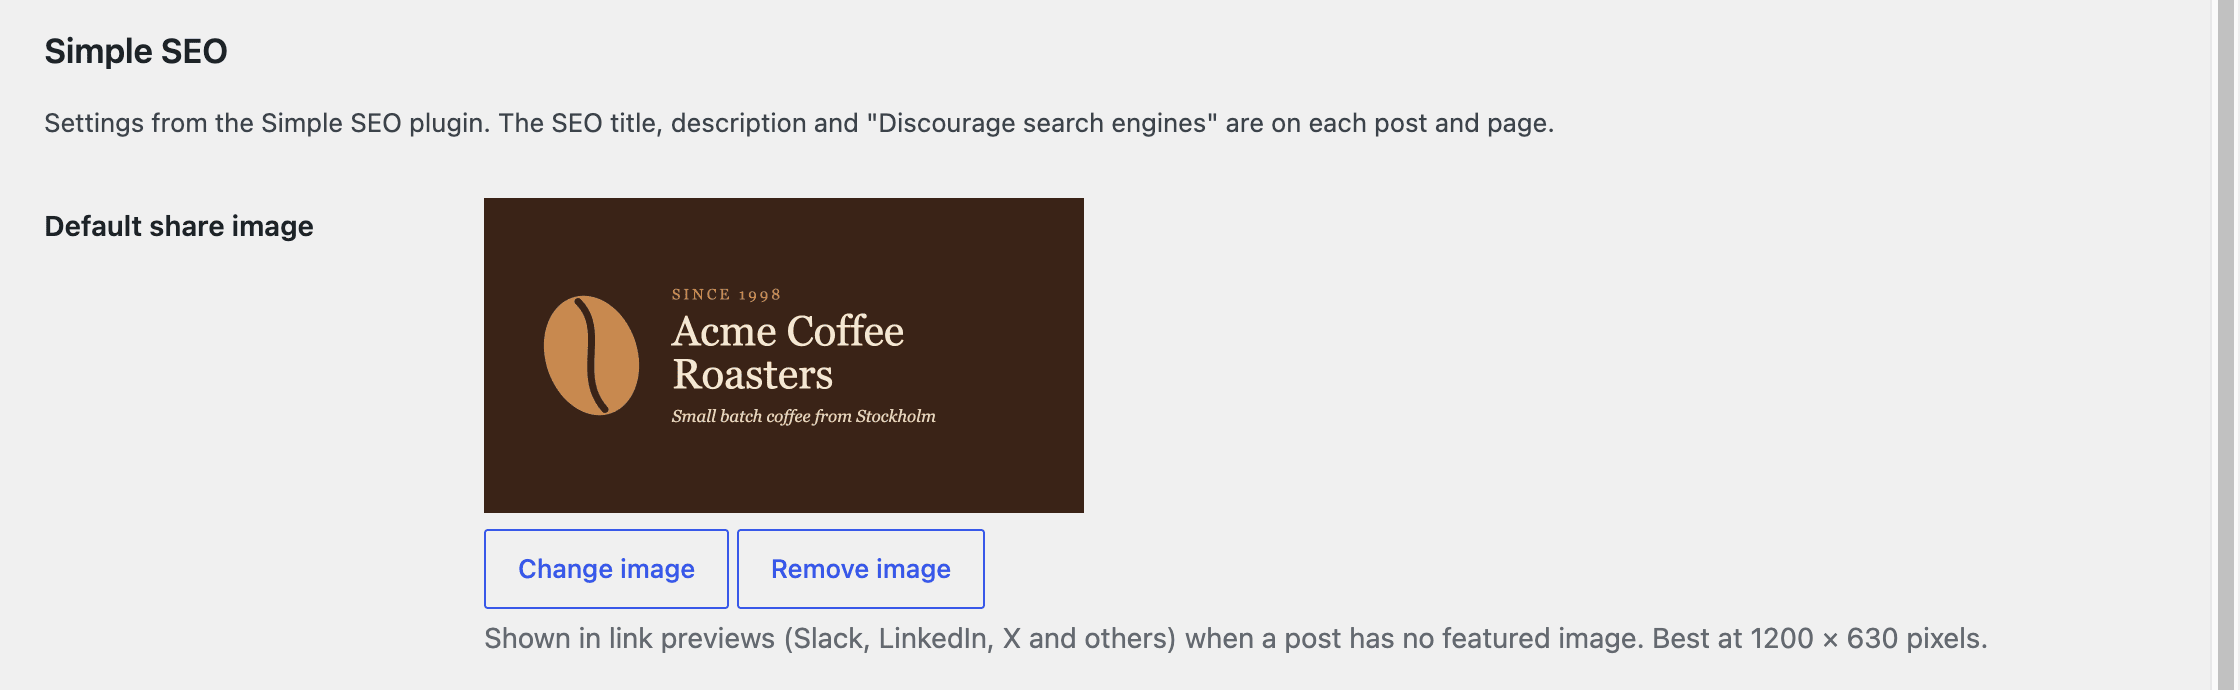
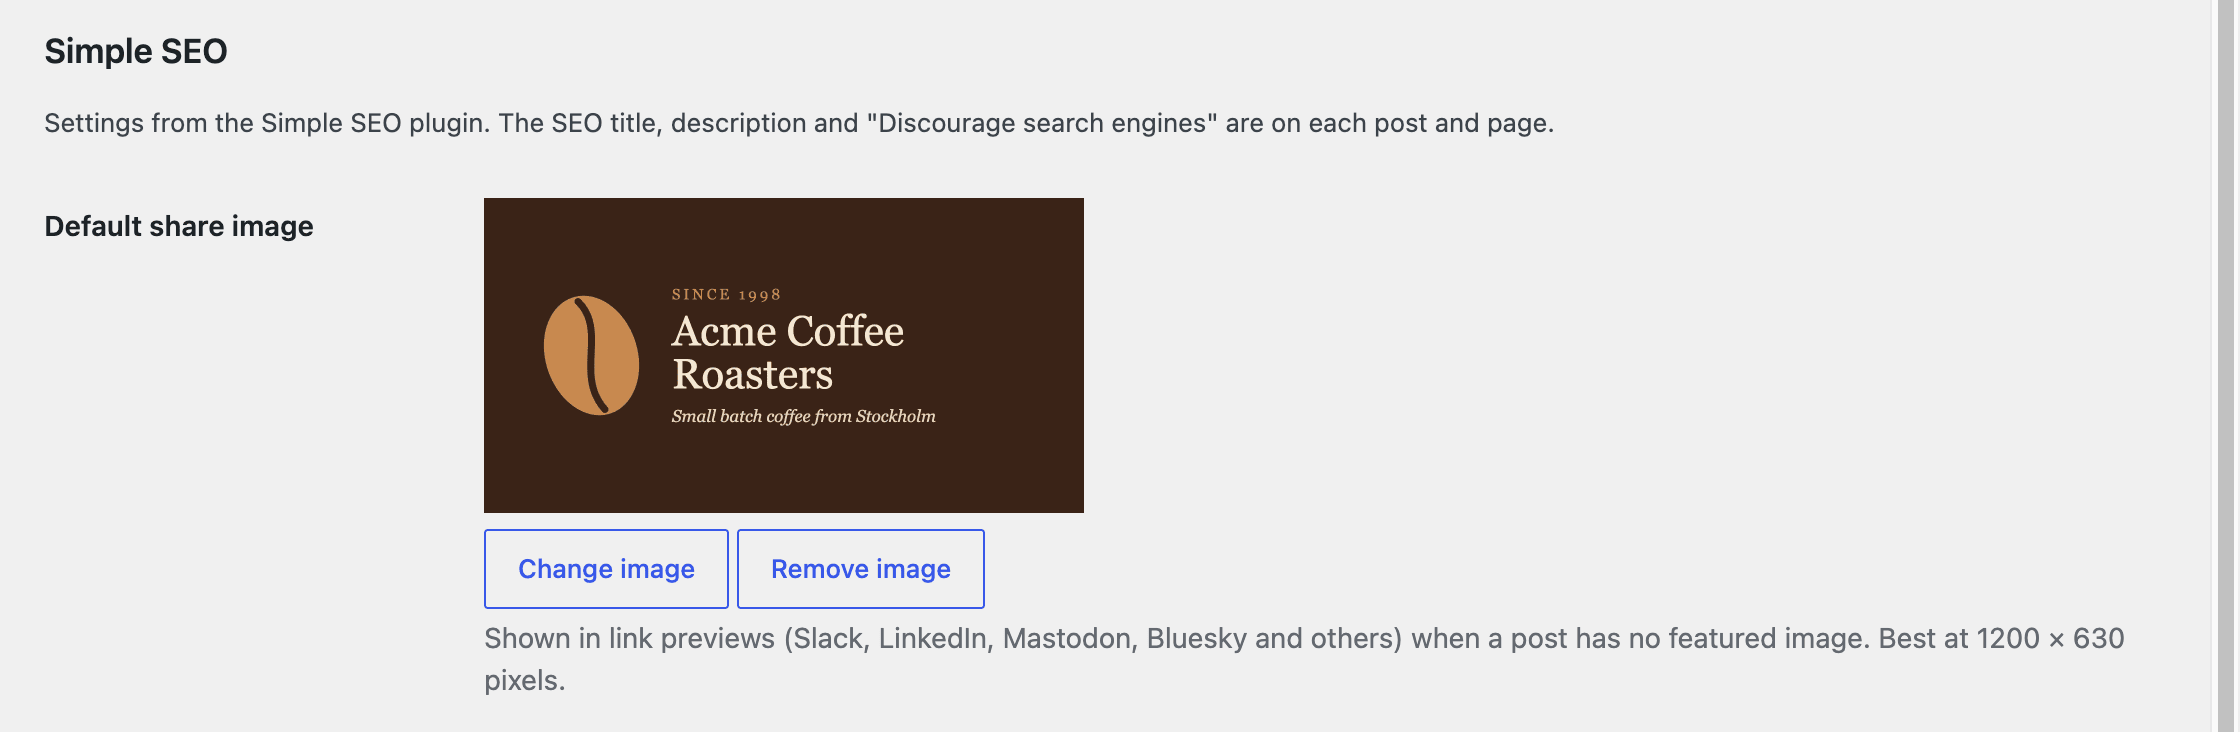
Description field grows with its text; name Mastodon and Bluesky
The meta description textarea grows with its text in both editors
(CSS field-sizing, between about two and ten lines; browsers without
it keep scrolling). Link preview texts and docs now name Mastodon and
Bluesky instead of X. Screenshots retaken.

diff --git a/build/editor-panel.js b/build/editor-panel.js
@@ -1,2 +1,2 @@
-(()=>{"use strict";const e=window.wp.plugins,s=window.wp.editor,t=window.wp.coreData,i=window.wp.data,o=window.wp.element,l=window.wp.components,n=window.wp.i18n,a=window.ReactJSXRuntime,{otherPlugin:_,simpleHistoryUrl:p,frontPageId:r}=window.simpleSeoEditor||{};function d({label:e,inputLabel:s,help:t,text:i,disabled:n,onChange:_,multiline:p}){const[r,d]=(0,o.useState)(!1),m=!n&&(""!==i||r),c={__nextHasNoMarginBottom:!0,hideLabelFromVision:!0,label:s,value:i,onChange:e=>_({text:e,disabled:!m})};return(0,a.jsxs)(l.Flex,{direction:"column",gap:2,children:[(0,a.jsx)(l.CheckboxControl,{__nextHasNoMarginBottom:!0,label:e,help:t,checked:m,onChange:e=>{d(e),_({text:i,disabled:!e})}}),p?(0,a.jsx)(l.TextareaControl,{...c,rows:2}):(0,a.jsx)(l.TextControl,{...c,__next40pxDefaultSize:!0})]})}(0,e.registerPlugin)("simple-seo",{render:function(){const e=(0,i.useSelect)(e=>e(s.store).getCurrentPostType(),[]),m=(0,i.useSelect)(e=>e(s.store).getCurrentPostId(),[]),[c,h]=(0,t.useEntityProp)("postType",e,"meta");if(!c)return null;const u=!c._simple_seo_title_disabled&&""!==c._simple_seo_title||!c._simple_seo_description_disabled&&""!==c._simple_seo_description||!!c._simple_seo_noindex,x=e=>({text:s,disabled:t})=>h({[e]:s,[`${e}_disabled`]:t});return(0,a.jsx)(s.PluginDocumentSettingPanel,{name:"simple-seo",title:(0,n.__)("Simple SEO","simple-seo"),children:(0,a.jsxs)(l.Flex,{direction:"column",gap:4,children:[_&&(0,a.jsx)("p",{className:"components-base-control__help",children:(0,n.sprintf)(/* translators: %s: name of another SEO plugin, like Yoast SEO. */ /* translators: %s: name of another SEO plugin, like Yoast SEO. */
+(()=>{"use strict";const e=window.wp.plugins,s=window.wp.editor,t=window.wp.coreData,i=window.wp.data,o=window.wp.element,l=window.wp.components,n=window.wp.i18n,a=window.ReactJSXRuntime,{otherPlugin:_,simpleHistoryUrl:p,frontPageId:r}=window.simpleSeoEditor||{};function d({label:e,inputLabel:s,help:t,text:i,disabled:n,onChange:_,multiline:p}){const[r,d]=(0,o.useState)(!1),m=!n&&(""!==i||r),c={__nextHasNoMarginBottom:!0,hideLabelFromVision:!0,label:s,value:i,onChange:e=>_({text:e,disabled:!m})};return(0,a.jsxs)(l.Flex,{direction:"column",gap:2,children:[(0,a.jsx)(l.CheckboxControl,{__nextHasNoMarginBottom:!0,label:e,help:t,checked:m,onChange:e=>{d(e),_({text:i,disabled:!e})}}),p?(0,a.jsx)(l.TextareaControl,{...c,className:"simple-seo-autogrow",rows:2}):(0,a.jsx)(l.TextControl,{...c,__next40pxDefaultSize:!0})]})}(0,e.registerPlugin)("simple-seo",{render:function(){const e=(0,i.useSelect)(e=>e(s.store).getCurrentPostType(),[]),m=(0,i.useSelect)(e=>e(s.store).getCurrentPostId(),[]),[c,h]=(0,t.useEntityProp)("postType",e,"meta");if(!c)return null;const u=!c._simple_seo_title_disabled&&""!==c._simple_seo_title||!c._simple_seo_description_disabled&&""!==c._simple_seo_description||!!c._simple_seo_noindex,x=e=>({text:s,disabled:t})=>h({[e]:s,[`${e}_disabled`]:t});return(0,a.jsx)(s.PluginDocumentSettingPanel,{name:"simple-seo",title:(0,n.__)("Simple SEO","simple-seo"),children:(0,a.jsxs)(l.Flex,{direction:"column",gap:4,children:[_&&(0,a.jsx)("p",{className:"components-base-control__help",children:(0,n.sprintf)(/* translators: %s: name of another SEO plugin, like Yoast SEO. */ /* translators: %s: name of another SEO plugin, like Yoast SEO. */
 (0,n.__)("%s is active and handles SEO, so these fields aren’t used.","simple-seo"),_)}),(0,a.jsx)(d,{label:(0,n.__)("Use a custom SEO title","simple-seo"),inputLabel:(0,n.__)("SEO title","simple-seo"),help:m===r?(0,n.__)("Used as the whole title of the front page.","simple-seo"):(0,n.__)("The site name is added after it.","simple-seo"),text:c._simple_seo_title,disabled:c._simple_seo_title_disabled,onChange:x("_simple_seo_title")}),(0,a.jsx)(d,{label:(0,n.__)("Use a custom meta description","simple-seo"),inputLabel:(0,n.__)("Meta description","simple-seo"),help:(0,n.__)("Shown under the title in search results.","simple-seo"),text:c._simple_seo_description,disabled:c._simple_seo_description_disabled,onChange:x("_simple_seo_description"),multiline:!0}),(0,a.jsx)(l.CheckboxControl,{__nextHasNoMarginBottom:!0,label:(0,n.__)("Discourage search engines from indexing this page","simple-seo"),help:(0,n.__)("It’s up to search engines to honor this request. Anyone with the link can still open the page.","simple-seo"),checked:!!c._simple_seo_noindex,onChange:e=>h({_simple_seo_noindex:e})}),p&&u&&(0,a.jsx)("p",{className:"components-base-control__help",children:(0,o.createInterpolateElement)((0,n.__)("Tip: <a>Simple History</a> logs every change to these fields.","simple-seo"),{a:(0,a.jsx)("a",{href:p})})})]})})}})})();

diff --git a/.claude/skills/visual-check/capture-screenshots.js b/.claude/skills/visual-check/capture-screenshots.js
@@ -17,9 +17,9 @@
 async ( page ) => {
 	const WP_ENV = 'http://localhost:8315';
 	const CLASSIC = 'http://wp-playground-classiceditor.test:8314';
-	const WP_ENV_PAGE = 58; // "About us" from seed.php on wp-env.
-	const WP_ENV_QUICK_EDIT = 59; // "Our coffees", opened in Quick Edit in shot 2.
-	const CLASSIC_PAGE = 93; // "About us" from seed.php on the Classic Editor site.
+	const WP_ENV_PAGE = 64; // "About us" from seed.php on wp-env.
+	const WP_ENV_QUICK_EDIT = 65; // "Our coffees", opened in Quick Edit in shot 2.
+	const CLASSIC_PAGE = 98; // "About us" from seed.php on the Classic Editor site.
 	const X = 160; // Right of the admin menu.
 	const WIDTH = 1120;
 

diff --git a/js/editor-panel.js b/js/editor-panel.js
@@ -72,7 +72,11 @@ function Field( {
 				} }
 			/>
 			{ multiline ? (
-				<TextareaControl { ...inputProps } rows={ 2 } />
+				<TextareaControl
+					{ ...inputProps }
+					className="simple-seo-autogrow"
+					rows={ 2 }
+				/>
 			) : (
 				<TextControl { ...inputProps } __next40pxDefaultSize />
 			) }

diff --git a/src/admin.php b/src/admin.php
@@ -52,6 +52,16 @@ function uses_seo_fields( int $post_id ): bool {
 }
 
 /**
+ * CSS that lets a textarea grow with its text, between two and about ten lines.
+ * field-sizing: content where the browser supports it; elsewhere the textarea keeps its rows and scrolls.
+ *
+ * @param string $selector The textarea selector.
+ */
+function autogrow_css( string $selector ): string {
+	return "{$selector} { field-sizing: content; min-height: 3.5em; max-height: 14em; }";
+}
+
+/**
  * A few lines of CSS for the Classic box and Quick Edit, on the screens that have them.
  *
  * @param string $hook_suffix The current admin page.
@@ -71,6 +81,7 @@ function enqueue_admin_css( string $hook_suffix ): void {
 		.simple-seo-quick-edit input[type="text"] { width: 100%; }
 		.simple-seo-quick-edit .simple-seo-note { margin: 4px 0; }
 		.column-simple_seo .simple-seo-not-used { opacity: .6; }
-		.column-simple_seo .dashicons-hidden { font-size: 16px; width: 16px; height: 16px; vertical-align: text-bottom; }'
+		.column-simple_seo .dashicons-hidden { font-size: 16px; width: 16px; height: 16px; vertical-align: text-bottom; }
+		' . autogrow_css( '#simple-seo textarea' )
 	);
 }

diff --git a/src/link-previews.php b/src/link-previews.php
@@ -1,6 +1,6 @@
 <?php
 /**
- * Link previews: Open Graph and Twitter card tags, for Slack, iMessage, LinkedIn, Facebook, X etc.
+ * Link previews: Open Graph and Twitter card tags, for Slack, iMessage, LinkedIn, Mastodon, Bluesky, Facebook etc.
  *
  * On by default. Turn off with add_filter( 'simple_seo_link_previews', '__return_false' ).
  * Hooked from add_seo_hooks(), so nothing is output when another SEO plugin is active.
@@ -77,12 +77,12 @@ function link_preview_tags(): void {
 		'og:image:width'  => $image['width'] ?? '',
 		'og:image:height' => $image['height'] ?? '',
 		'og:image:alt'    => $image['alt'] ?? '',
-		// X uses the og: tags for everything else.
+		// Apps that read twitter:card take everything else from the og: tags.
 		'twitter:card'    => $image ? 'summary_large_image' : 'summary',
 	];
 
 	/**
-	 * Filters the link preview tags before output. Change, add (e.g. 'og:locale', 'twitter:site')
+	 * Filters the link preview tags before output. Change, add (e.g. 'og:locale')
 	 * or remove tags. Empty values are skipped.
 	 *
 	 * @param array<string, string|int> $tags    Property => content. og:* print as property, the rest as name.

diff --git a/tests/php/LinkPreviewsTest.php b/tests/php/LinkPreviewsTest.php
@@ -83,9 +83,9 @@ class LinkPreviewsTest extends SimpleSEO_TestCase {
 	}
 
 	public function test_filters() {
-		add_filter( 'simple_seo_link_preview_tags', fn( $tags ) => [ 'twitter:site' => '@simplehistory' ] + $tags );
+		add_filter( 'simple_seo_link_preview_tags', fn( $tags ) => [ 'og:locale' => 'sv_SE' ] + $tags );
 		$this->go_to( get_permalink( self::factory()->post->create() ) );
-		$this->assertStringContainsString( '<meta name="twitter:site" content="@simplehistory" />', $this->tags() );
+		$this->assertStringContainsString( '<meta property="og:locale" content="sv_SE" />', $this->tags() );
 
 		add_filter( 'simple_seo_link_previews', '__return_false' );
 		$this->assertSame( '', $this->tags() );

diff --git a/src/block-editor.php b/src/block-editor.php
@@ -45,4 +45,9 @@ function enqueue_editor_panel(): void {
 	);
 
 	wp_set_script_translations( 'simple-seo-editor-panel', 'simple-seo' );
+
+	// The description grows with its text (field-sizing, where supported; elsewhere it scrolls).
+	wp_register_style( 'simple-seo-editor-panel', false, [], SIMPLE_SEO_VERSION );
+	wp_enqueue_style( 'simple-seo-editor-panel' );
+	wp_add_inline_style( 'simple-seo-editor-panel', autogrow_css( '.simple-seo-autogrow textarea' ) );
 }

diff --git a/src/settings.php b/src/settings.php
@@ -87,7 +87,7 @@ function share_image_field(): void {
 
 	printf(
 		'<p class="description">%s</p>',
-		esc_html__( 'Shown in link previews (Slack, LinkedIn, X and others) when a post has no featured image. Best at 1200 × 630 pixels.', 'simple-seo' )
+		esc_html__( 'Shown in link previews (Slack, LinkedIn, Mastodon, Bluesky and others) when a post has no featured image. Best at 1200 × 630 pixels.', 'simple-seo' )
 	);
 }
 

diff --git a/build/editor-panel.asset.php b/build/editor-panel.asset.php
@@ -9,5 +9,5 @@
 		'wp-i18n',
 		'wp-plugins'
 	),
-	'version' => 'c56b016bc10726900cc4'
+	'version' => 'cc689ac30a7188e28642'
 );

diff --git a/docs/hooks.md b/docs/hooks.md
@@ -9,7 +9,7 @@ Filters for developers, all prefixed `simple_seo_`. Each is documented where it'
 | `simple_seo_noindex` | `bool $noindex`, `int $post_id` | Hide or show a post to search engines in the robots tag. The sitemap follows the stored setting. |
 | `simple_seo_link_previews` | `bool $enabled` | Return `false` to output no Open Graph or Twitter tags (Jetpack's come back then). |
 | `simple_seo_link_preview_image` | `array\|null $image` (`url`, `width`, `height`, `alt`), `int $post_id` | Change the preview image. By default the featured image, else the default share image from Settings → General. |
-| `simple_seo_link_preview_tags` | `array $tags` (property => content), `int $post_id` | Change, add (`og:locale`, `twitter:site`) or remove any link preview tag. `og:*` print as `property`, the rest as `name`. |
+| `simple_seo_link_preview_tags` | `array $tags` (property => content), `int $post_id` | Change, add (like `og:locale`) or remove any link preview tag. `og:*` print as `property`, the rest as `name`. |
 | `simple_seo_active_seo_plugin` | `string $name` | Return a name to make Simple SEO step aside for an SEO plugin it doesn't know, or `''` to output anyway. Runs on `plugins_loaded`, so add it from a plugin. |
 
 No actions of our own: extra head tags go on `wp_head`, and saves can be followed with core's `added_post_meta` / `updated_post_meta` / `deleted_post_meta` (keys in CLAUDE.md).
@@ -24,9 +24,9 @@ add_filter( 'simple_seo_link_preview_image', function ( $image, $post_id ) {
 		: $image;
 }, 10, 2 );
 
-// Add the X account.
+// Add the language of the page.
 add_filter( 'simple_seo_link_preview_tags', function ( $tags ) {
-	$tags['twitter:site'] = '@simplehistory';
+	$tags['og:locale'] = 'sv_SE';
 	return $tags;
 } );
 ```
